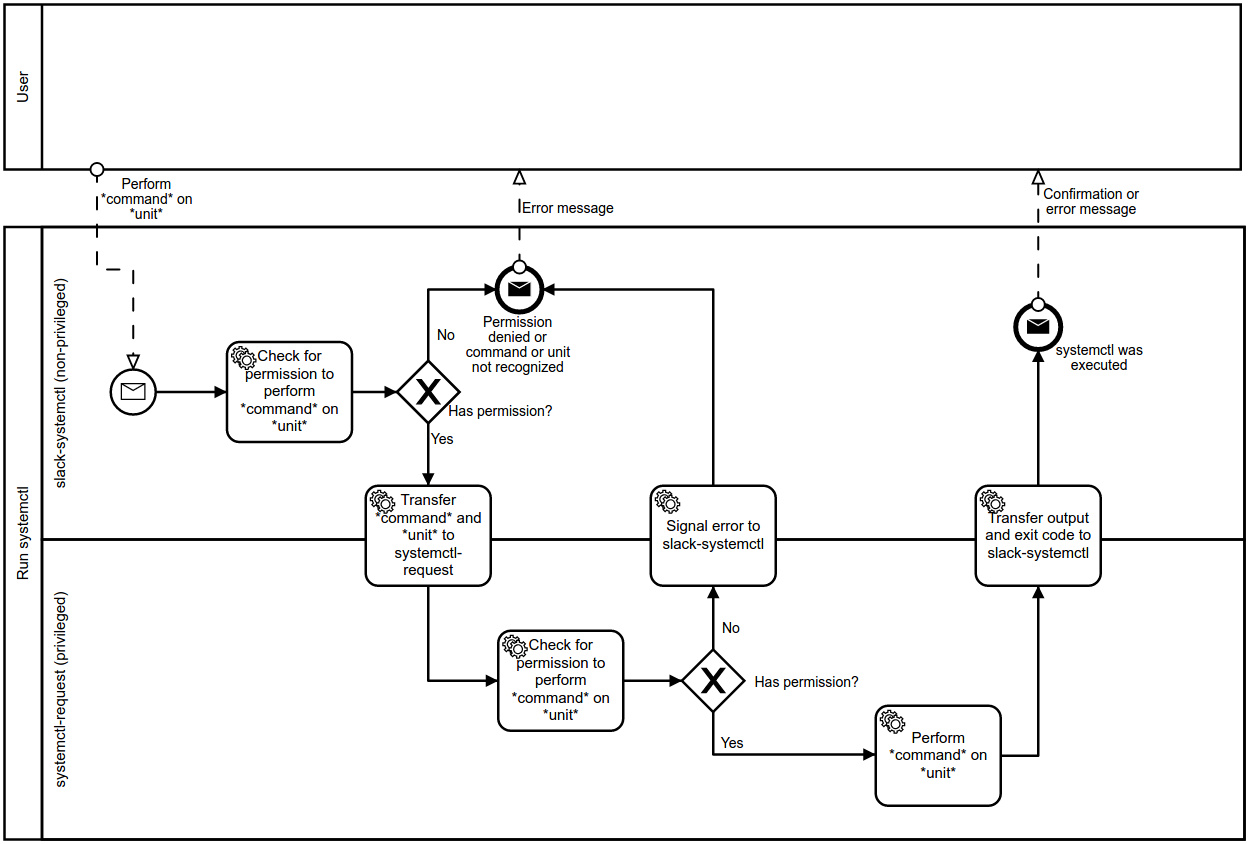
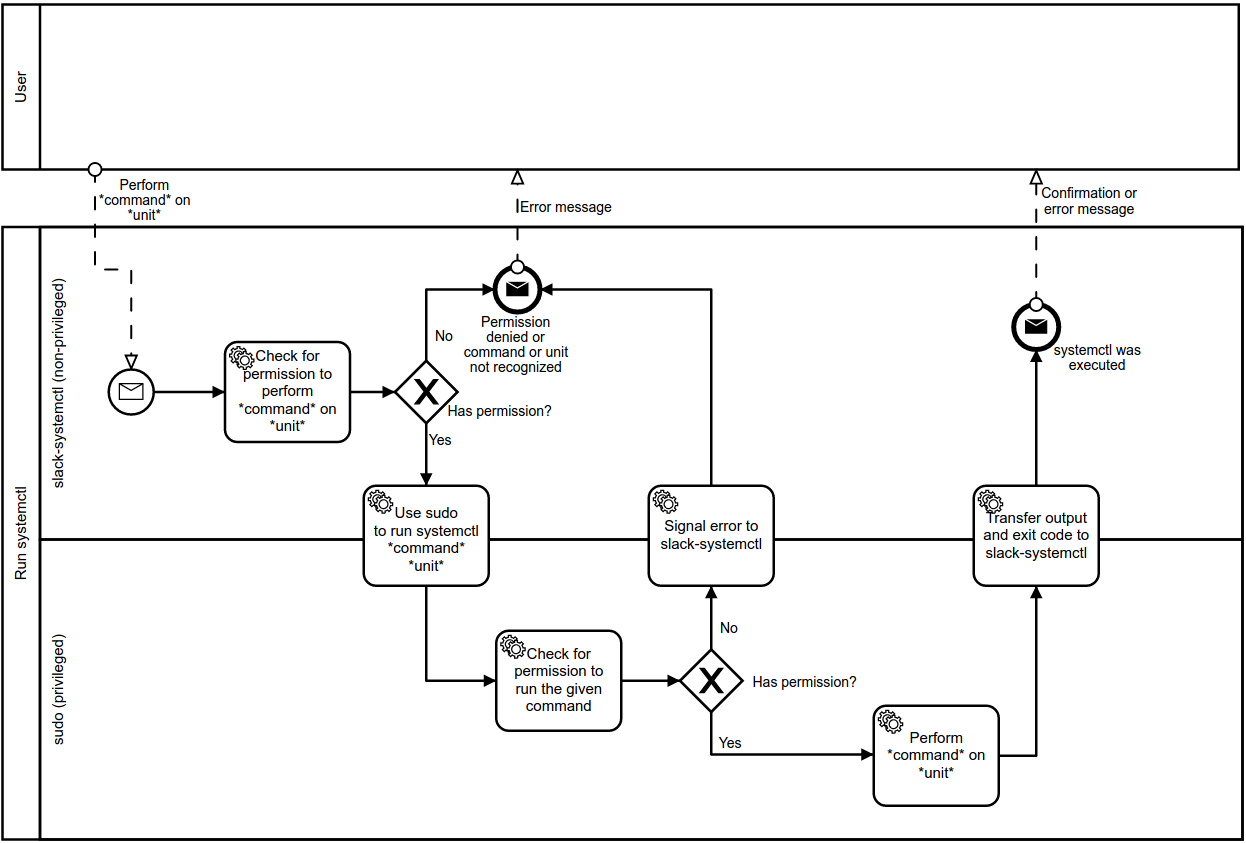
Change architecture plans to use sudoers for access control

diff --git a/README.md b/README.md
@@ -7,10 +7,21 @@ Control a unit file from Slack
 
 1. Run `git clone URL`.
 2. Run `cd FOLDER`.
-1. Run `make setup` and follow the prompts.
-2. Run `sudo make deploy`.
-3. Run `sudo systemctl start slack-systemctl` to start the program
+3. Run `make setup` and follow the prompts.
+4. Run `make sudoers`.
+5. Run `sudoedit` and paste the output of the previous command somewhere in the configuration. Save and close.
+4. Run `sudo make deploy`.
+5. Run `sudo systemctl start slack-systemctl` to start the program
    (it should start automatically on startup).
+
+### Changing the configuration
+
+1. Change the configuration file(s) (not the ones in templates).
+2. Update the sudoers file if you changed what units and commands are permitted:
+   
+   1. Run `make sudoers`.
+   2. Run `sudoedit` and replace the existing section on slack-systemctl with the output of the previous command. Save and close.
+3. Restart the application: `sudo systemctl restart slack-systemctl`
 
 ### Slack-usage
 
@@ -30,12 +41,8 @@ ensure that no one turns off a service in secret.
 
 ### Quick explaination
 
-The application is split into two parts: one which interfaces with Slack and runs as a non-privileged user, and one
-which interfaces with the first part and runs as a privileged user. This seperation means that even if the first part
-is compromised, the attacker has not gained root access to the server.
-
-Both parts check whether the given action is allowed, by reading the configuration files, even though only the second part
-needs to do this check. The reason for doing the check twice is that there is no reason to invoke the second part if the action 
-is not allowed, and you must check at the second part in order to have function level access control.
-
-The second part is not run as a service; rather, a unique user is set up for this task only. You can log in as this user on ssh, but ssh is set up so that you'll just execute a command when logging in (no login shell). That command is the second part of the application. That user is allowed to run commands as sudo, and can therefore run the `systemctl` command needed to perform the action requested by Slack.
+The application monitors the Slack channels the bot is invited to, and reacts to a keyword. Upon receiving a message with
+the keyword, it will try to determine whether it is allowed to perform the action before running 
+`sudo --non-interactive systemctl COMMAND UNIT`. However, instead of granting the application full root privileges, the sudoers
+file is used to grant the application permission to execute only those commands users are allowed to execute. This means that even
+if the application is compromised, it does not grant the attacker access to the entire server.
